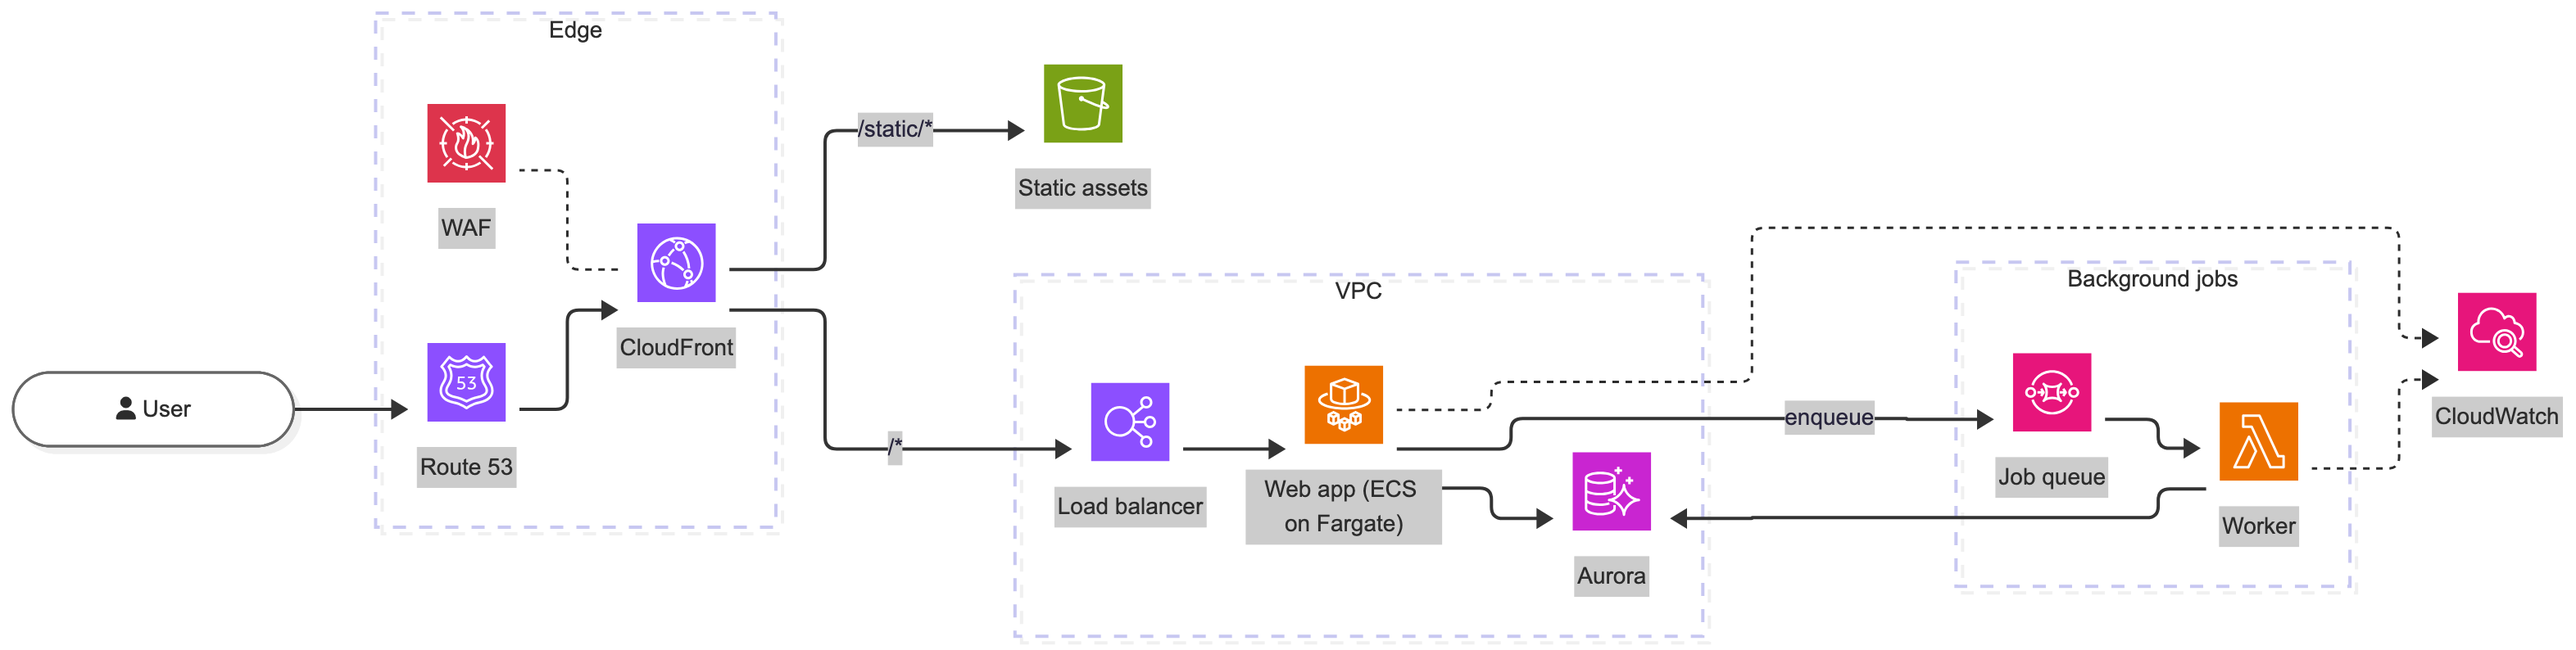
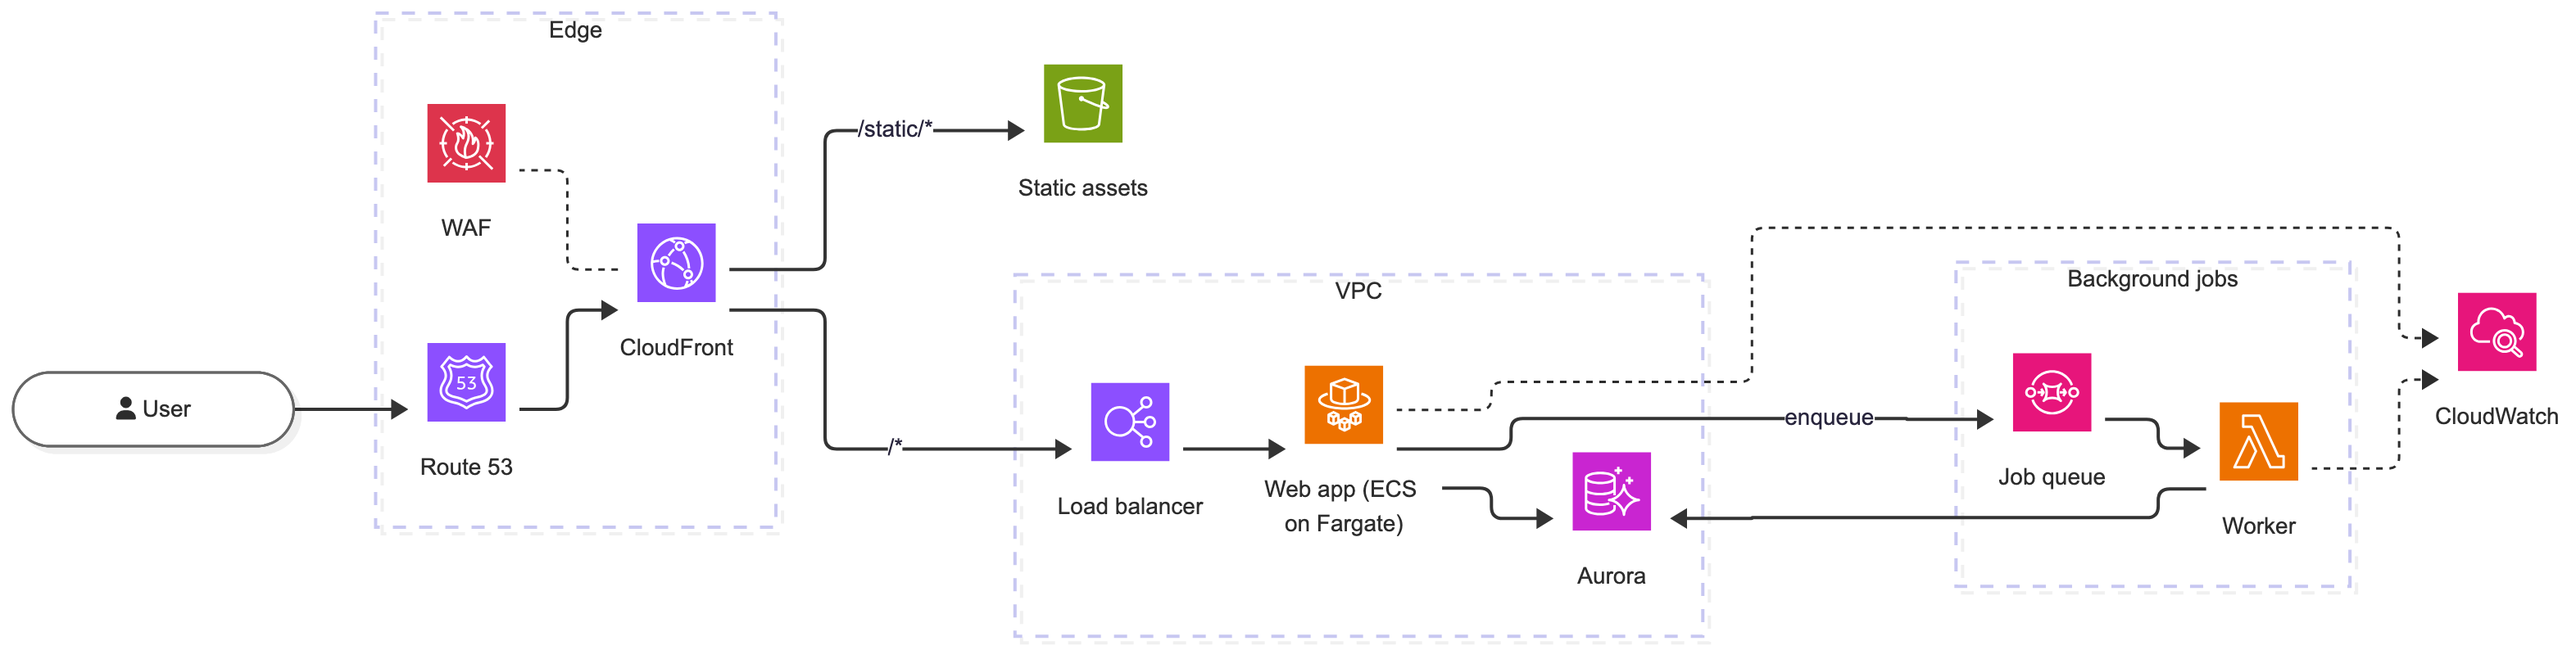
docs: white label backgrounds in the AWS sample
Add config.themeVariables.edgeLabelBackground '#FFFFFF' to the sample
flowchart, as the theme now does, and re-render: icon-node and edge
labels no longer sit on grey boxes.

diff --git a/docs/examples/aws-architecture.md b/docs/examples/aws-architecture.md
@@ -49,6 +49,8 @@ A web app behind CloudFront, with background jobs. Styled with the default color
 ```mermaid
 ---
 config:
+  themeVariables:
+    edgeLabelBackground: '#FFFFFF'
   elk:
     lineHops: false
 ---
@@ -108,6 +110,8 @@ Mermaid code:
 ```mermaid
 ---
 config:
+  themeVariables:
+    edgeLabelBackground: '#FFFFFF'
   elk:
     lineHops: false
 ---
